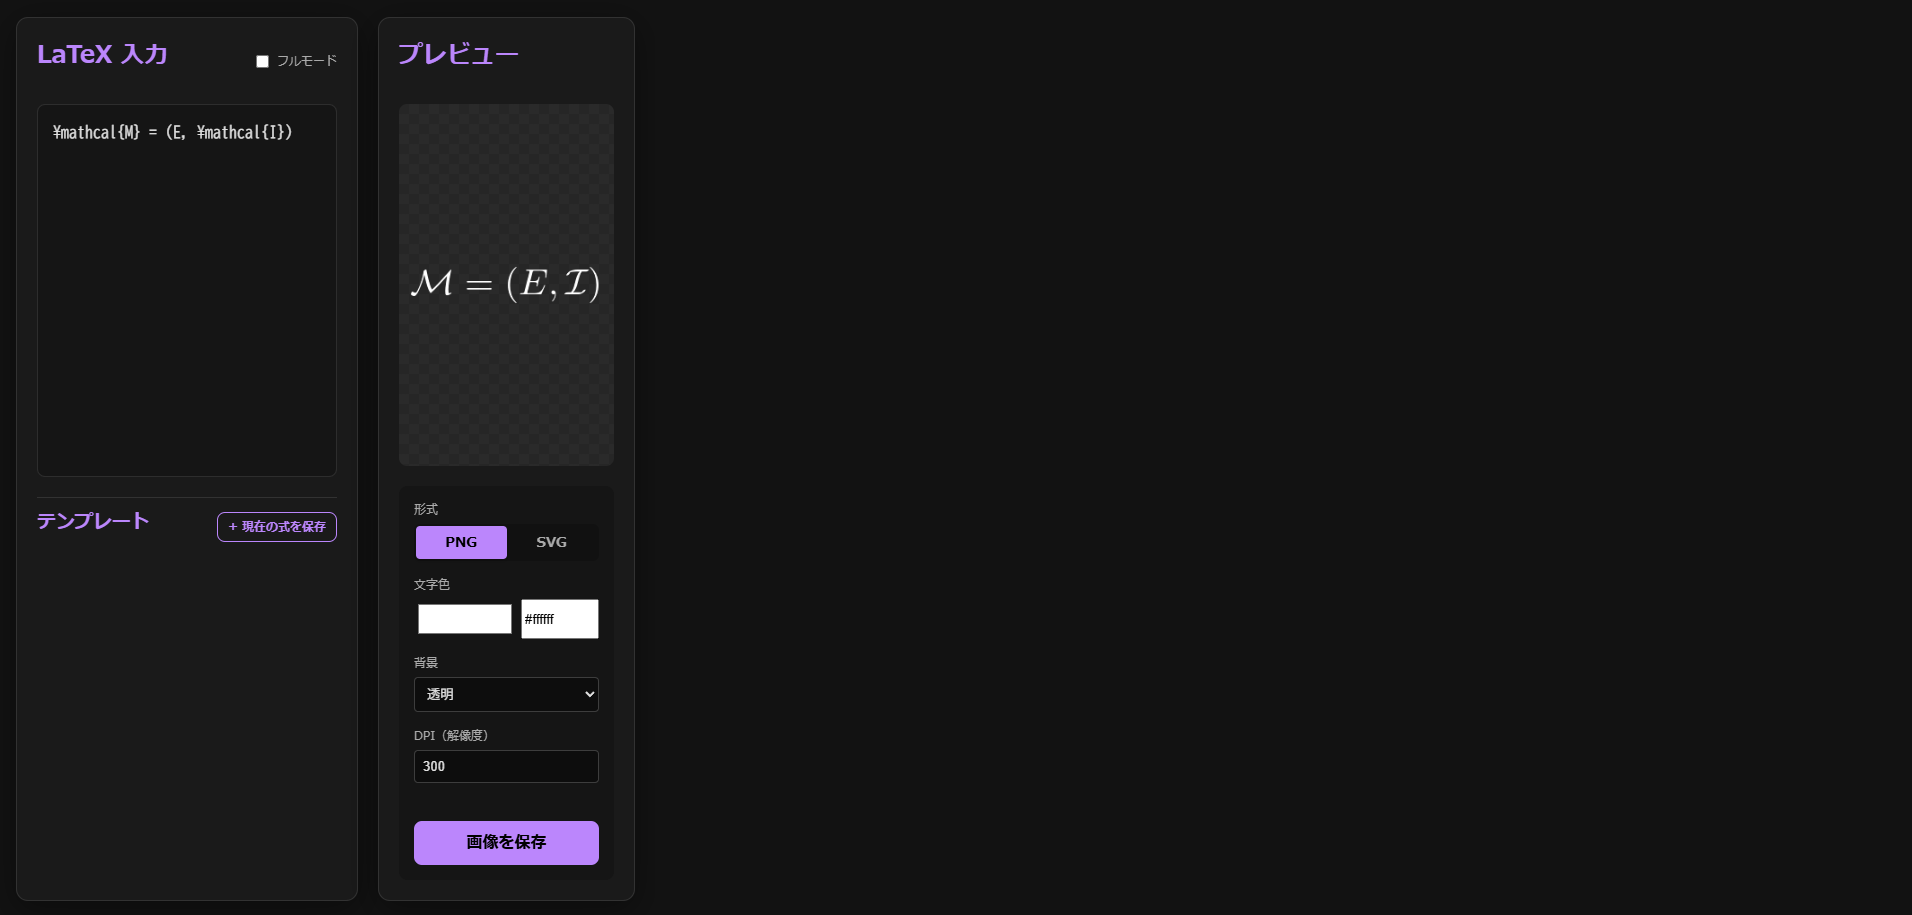
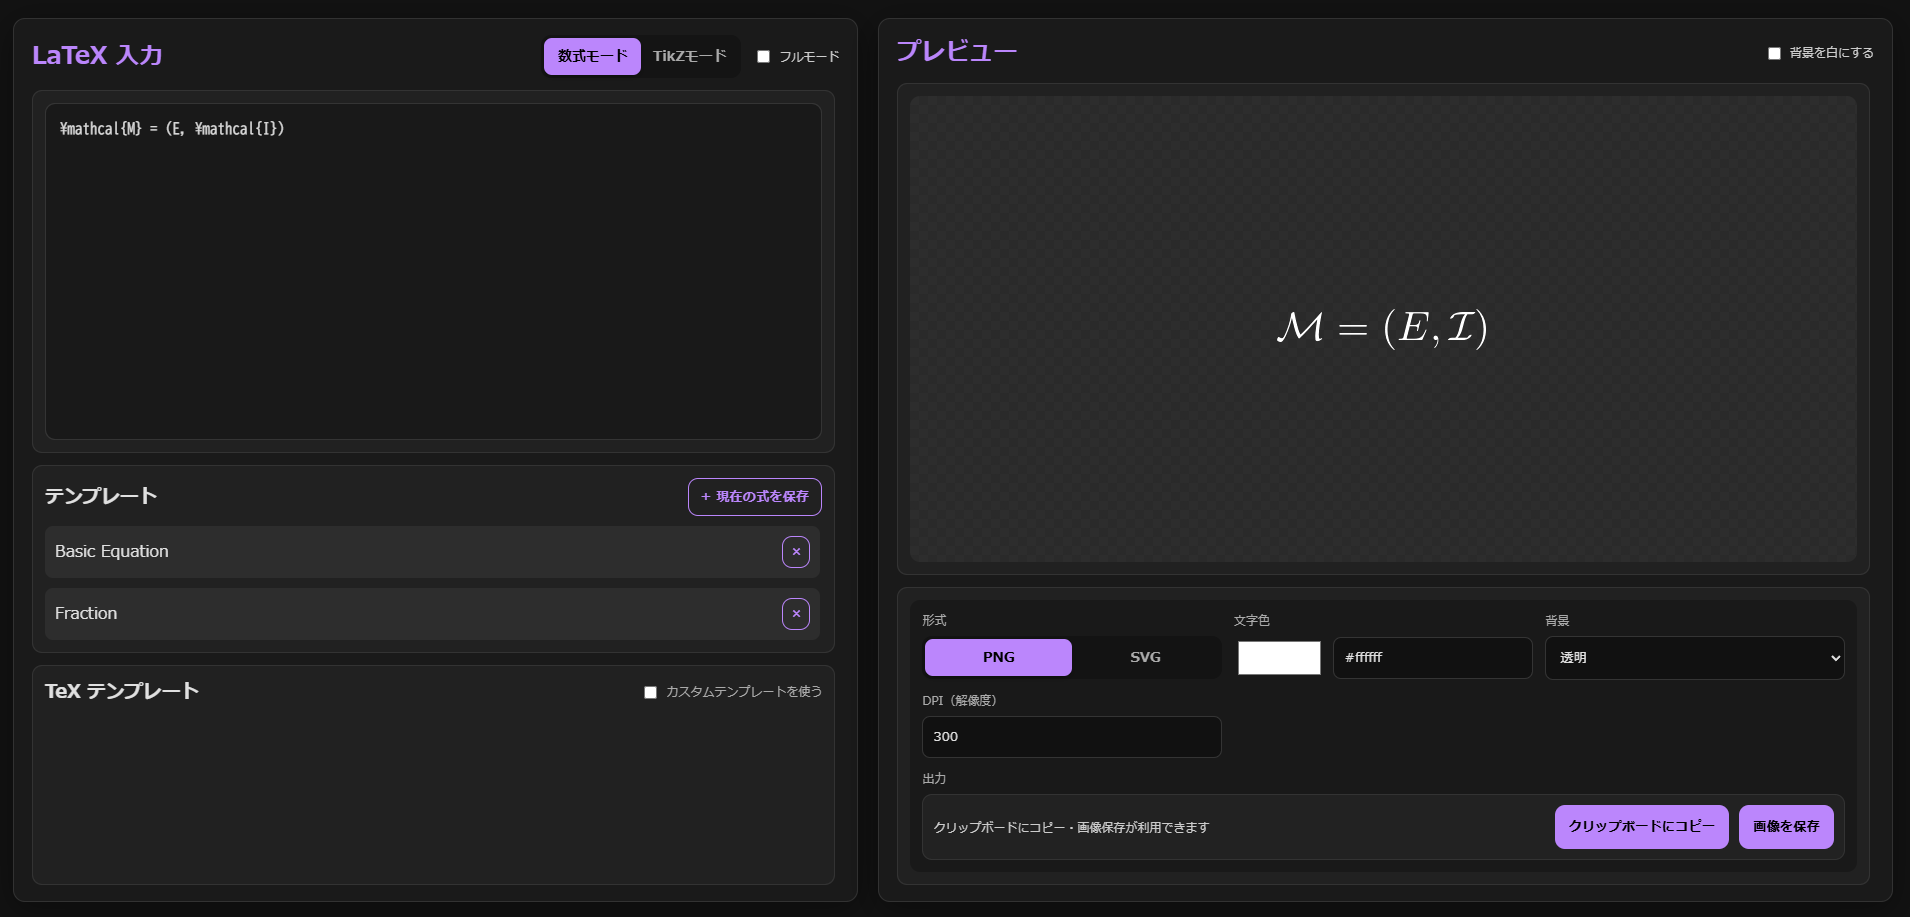
ボタン配置の修正

diff --git a/frontend/src/components/Controls.tsx b/frontend/src/components/Controls.tsx
@@ -94,23 +94,35 @@ const Controls: React.FC<Props> = ({
                 </div>
             )}
 
-            <div className="control-group" style={{ justifyContent: 'flex-end' }}>
-                <label>&nbsp;</label>
-                <div className="action-buttons">
-                    <button
-                        onClick={onCopy}
-                        disabled={!canCopy || copyStatus === 'copying'}
-                    >
-                        {copyStatus === 'copying' ? 'コピー中...' : 'クリップボードにコピー'}
-                    </button>
-                    <button onClick={onSave} disabled={!canCopy}>画像を保存</button>
+            <div className="control-group control-group--actions">
+                <label>出力</label>
+                <div className="control-actions">
+                    <div className="action-status">
+                        {copyStatus === 'copied' && (
+                            <span className="action-note action-note--success">クリップボードにコピーしました</span>
+                        )}
+                        {copyStatus === 'failed' && (
+                            <span className="action-note action-note--error">コピーに失敗しました。ブラウザの設定を確認してください。</span>
+                        )}
+                        {copyStatus === 'idle' && (
+                            <span className="action-note">
+                                {canCopy ? 'クリップボードにコピー・画像保存が利用できます' : 'プレビュー生成後にコピー/保存できます'}
+                            </span>
+                        )}
+                        {copyStatus === 'copying' && (
+                            <span className="action-note">コピー中...</span>
+                        )}
+                    </div>
+                    <div className="action-buttons">
+                        <button
+                            onClick={onCopy}
+                            disabled={!canCopy || copyStatus === 'copying'}
+                        >
+                            {copyStatus === 'copying' ? 'コピー中...' : 'クリップボードにコピー'}
+                        </button>
+                        <button onClick={onSave} disabled={!canCopy}>画像を保存</button>
+                    </div>
                 </div>
-                {copyStatus === 'copied' && (
-                    <span className="action-note action-note--success">クリップボードにコピーしました</span>
-                )}
-                {copyStatus === 'failed' && (
-                    <span className="action-note action-note--error">コピーに失敗しました。ブラウザの設定を確認してください。</span>
-                )}
             </div>
         </div>
     );

diff --git a/frontend/src/App.css b/frontend/src/App.css
@@ -262,11 +262,12 @@ button.small {
 
 .controls {
   display: grid;
-  grid-template-columns: repeat(auto-fit, minmax(220px, 1fr));
+  grid-template-columns: repeat(auto-fit, minmax(240px, 1fr));
   gap: 12px;
   padding: 12px;
   background: rgba(0, 0, 0, 0.25);
   border-radius: 10px;
+  align-items: start;
 }
 
 .control-group {
@@ -275,10 +276,32 @@ button.small {
   gap: 6px;
 }
 
+.control-group--actions {
+  grid-column: 1 / -1;
+}
+
+.control-actions {
+  display: flex;
+  align-items: center;
+  justify-content: space-between;
+  gap: 12px;
+  flex-wrap: wrap;
+  padding: 10px;
+  background: rgba(255, 255, 255, 0.04);
+  border: 1px solid rgba(255, 255, 255, 0.08);
+  border-radius: 10px;
+}
+
+.action-status {
+  flex: 1 1 260px;
+  min-height: 18px;
+}
+
 .action-buttons {
   display: flex;
   gap: 10px;
   flex-wrap: wrap;
+  justify-content: flex-end;
 }
 
 .action-note {
@@ -292,6 +315,21 @@ button.small {
 
 .action-note--error {
   color: #ffc8d2;
+}
+
+@media (max-width: 680px) {
+  .control-actions {
+    flex-direction: column;
+    align-items: stretch;
+  }
+
+  .action-buttons {
+    justify-content: flex-start;
+  }
+
+  .action-buttons button {
+    width: 100%;
+  }
 }
 
 label {
